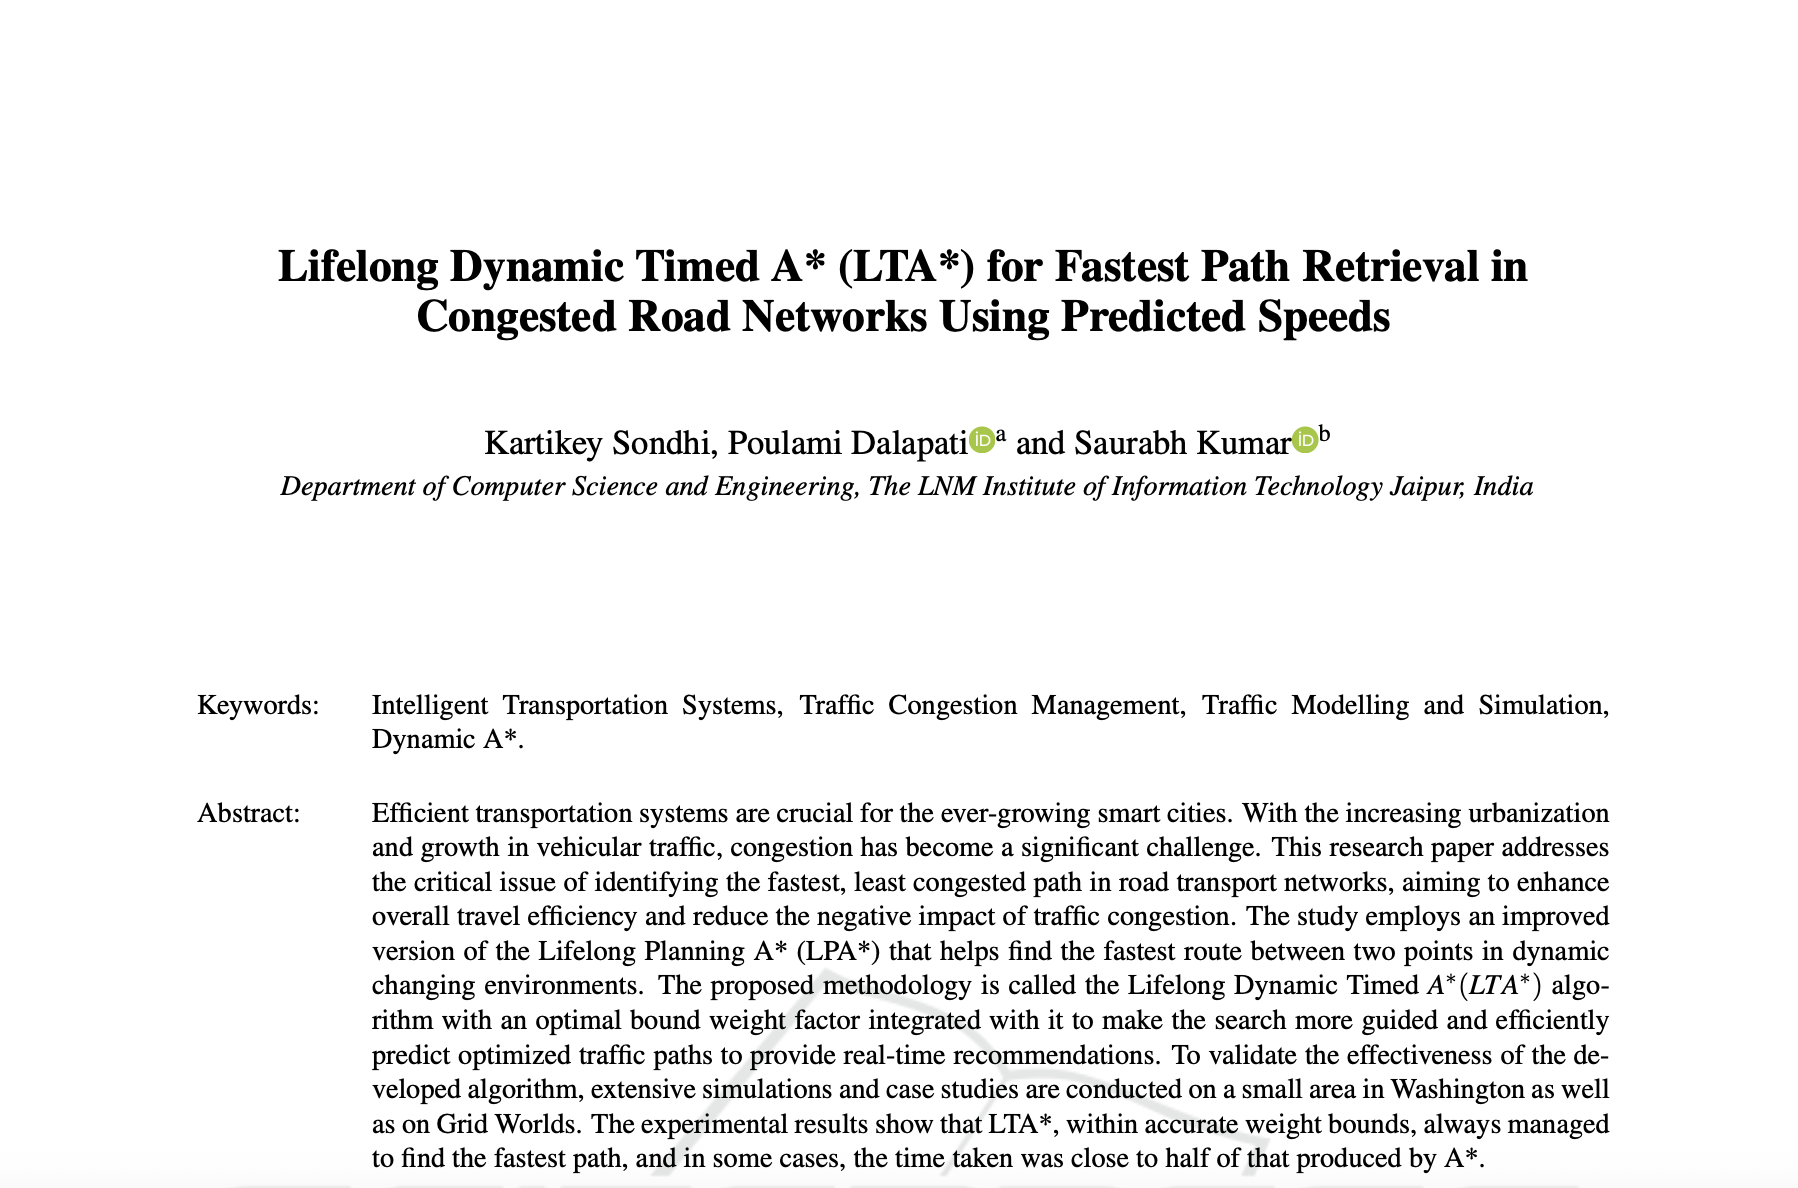
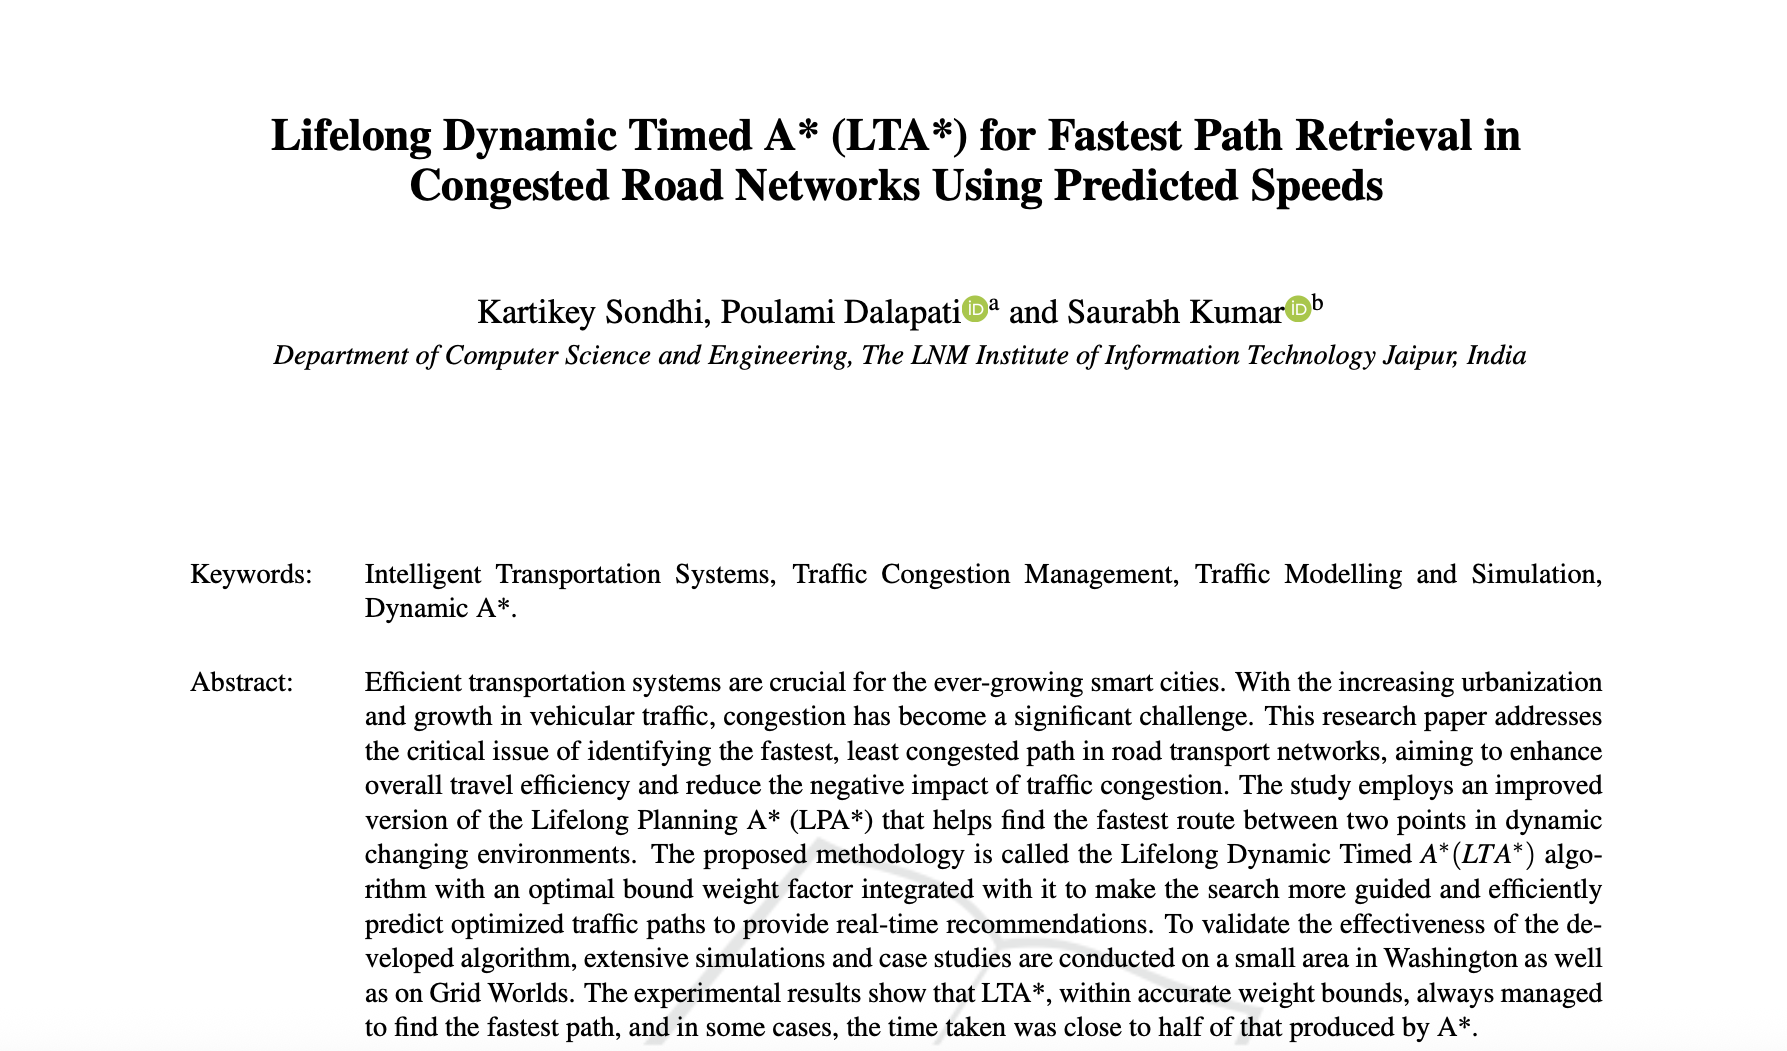
Changes

Changed region(s): [[0.0923, 0.5176, 0.8926, 1.0], [0.1539, 0.0913, 0.8618, 0.4263], [0.0923, 0.6394, 0.1539, 0.7003]]

diff --git a/src/content_option.js b/src/content_option.js
@@ -2,6 +2,7 @@ import image1 from "./assets/images/pexels-pixabay-534216.jpg"
 import image2 from "./assets/images/1032028070862920821.jpg"
 import image3 from "./assets/images/image.png"
 import image4 from "./assets/images/myResearchPaper.png"
+import image5 from "./assets/images/TruckELD.png"
 const logotext = "KARTIKEY";
 const meta = {
     title: "Kartikey Sondhi",
@@ -12,16 +13,16 @@ const introdata = {
     title: "I’m Kartikey Sondhi",
     animated: {
         first: "I am an AI/ML Engineer",
-        second: "I am a Researcher",
-        // third: "I am a Basketball Player",
+        second: "I am a Data Scientist",
+        third: "I am a Researcher",
     },
-    description: "I'm an AI/ML Engineer and Researcher with a passion for developing innovative solutions. I graduated with a Dual B.Tech M.Tech degree in Computer Science, and have a strong background in Deep Learning, Python and Academic Research. Currently learning C++ and exploring oppurtunities surrounding building optimizations for AI Inference on different devices",
+    description: "Results-driven AI Engineer with a strong track record of designing, shipping, and scaling production systems. Experienced in building reliable ML-powered backends, improving system performance, and turning stalled projects into high-impact deliverables through rigorous engineering and data-driven iteration.",
     your_img_url: "",
 };
 
 const dataabout = {
     title: "A bit about myself",
-    aboutme: "I am an AI/ML Engineer and Researcher with a passion for developing innovative solutions. I graduated with a Dual B.Tech M.Tech degree in Computer Science, and have a strong background in Deep Learning,Python and Academic Research. I am currently exploring oppurtunities surrounding surrounding building optimizations for AI Inference on different devices, be it research or practical design and development."
+    aboutme: "Results-driven AI Engineer with a strong track record of designing, shipping, and scaling production systems. Experienced in building reliable ML-powered backends, improving system performance, and turning stalled projects into high-impact deliverables through rigorous engineering and data-driven iteration. Experienced building chatbots, LLM evaluation systems and building superior RAG based architectures."
 };
 const worktimeline = [{
         jobtitle: "Data Scientist 2",
@@ -46,11 +47,11 @@ const worktimeline = [{
 
 const skills = [{
         name: "Python",
-        value: 80,
+        value: 90,
     },
     {
         name: "Deep Learning",
-        value: 80,
+        value: 85,
     },
     {
         name: "SQL",
@@ -82,8 +83,12 @@ const services = [
 
 
 const dataportfolio = [{
+    img: image5,
+    description: "Built a functional and in use app for a US based trucking company which heuristically approaches truck routing problem and ELD planning as a printable format.",
+    link : "https://truck-route-eld.vercel.app"
+},{
         img: image1,
-        description: "An attempt at the Jane Street Stock Market Prediction Challenge. I trained a CNN-LSTM model from scratch to predict stock prices based on historical data.",
+        description: "Participated in the Jane Street Stock Market Prediction Challenge. I trained a CNN-LSTM model from scratch to predict stock prices based on historical data.",
         link: "https://github.com/KabhiCodeKabhiFork/CNN_LSTM_Ensemble_Stock_Prediction",
     },
     {
@@ -102,8 +107,8 @@ const dataportfolio = [{
 const contactConfig = {
     YOUR_EMAIL: "kartikeysondhi@gmail.com",
     // YOUR_FONE: "+91 **********",
-    description: `I’m excited to work with a team that has a high-velocity, inclusive engineering culture and a strong bias toward pushing the boundaries of what’s state-of-the-art. I’m especially motivated by companies with a clear long-term vision, disciplined execution, and the ambition to build products that can serve a large, meaningful market.
-    In my next role, I’m comfortable committing long, intense work cycles when the team is well-planned and aligned around a clear direction. I do my best work in environments where effort is matched with clarity of goals, strong technical leadership, and a shared sense of ownership over the end product. `,
+    description: `I’m drawn to teams that operate with high velocity, strong technical rigor, and a culture that actively pushes the boundaries of what’s state-of-the-art. I value environments where inclusion is paired with intellectual intensity, and where ambitious long-term vision is backed by disciplined execution. I’m particularly motivated by companies building for meaningful scale — products that serve large markets and solve problems that truly matter.
+    At this stage in my career, I’m intentional about where I invest my time and energy. I thrive in focused, high-output work cycles when there’s clarity of direction, strong engineering leadership, and shared ownership across the team. Having worked both independently and in structured environments, I bring a high degree of accountability, systems thinking, and execution discipline. I do my best work where expectations are high, planning is deliberate, and outcomes are measurable. `,
     // creat an emailjs.com account 
     // check out this tutorial https://www.emailjs.com/docs/examples/reactjs/
     YOUR_SERVICE_ID: process.env.REACT_APP_EMAILJS_SERVICE_ID,

diff --git a/src/pages/portfolio/style.css b/src/pages/portfolio/style.css
@@ -37,7 +37,8 @@ body {
 .img-container img {
   width: 100%; /* set the width to 100% */
   height: 100%;
-  object-fit: cover; /* This will make the image fill the container */
+    object-fit: cover;
+  object-position: top; /* Start content from the top of the image */
 }
 
 .po_item_row .content {
